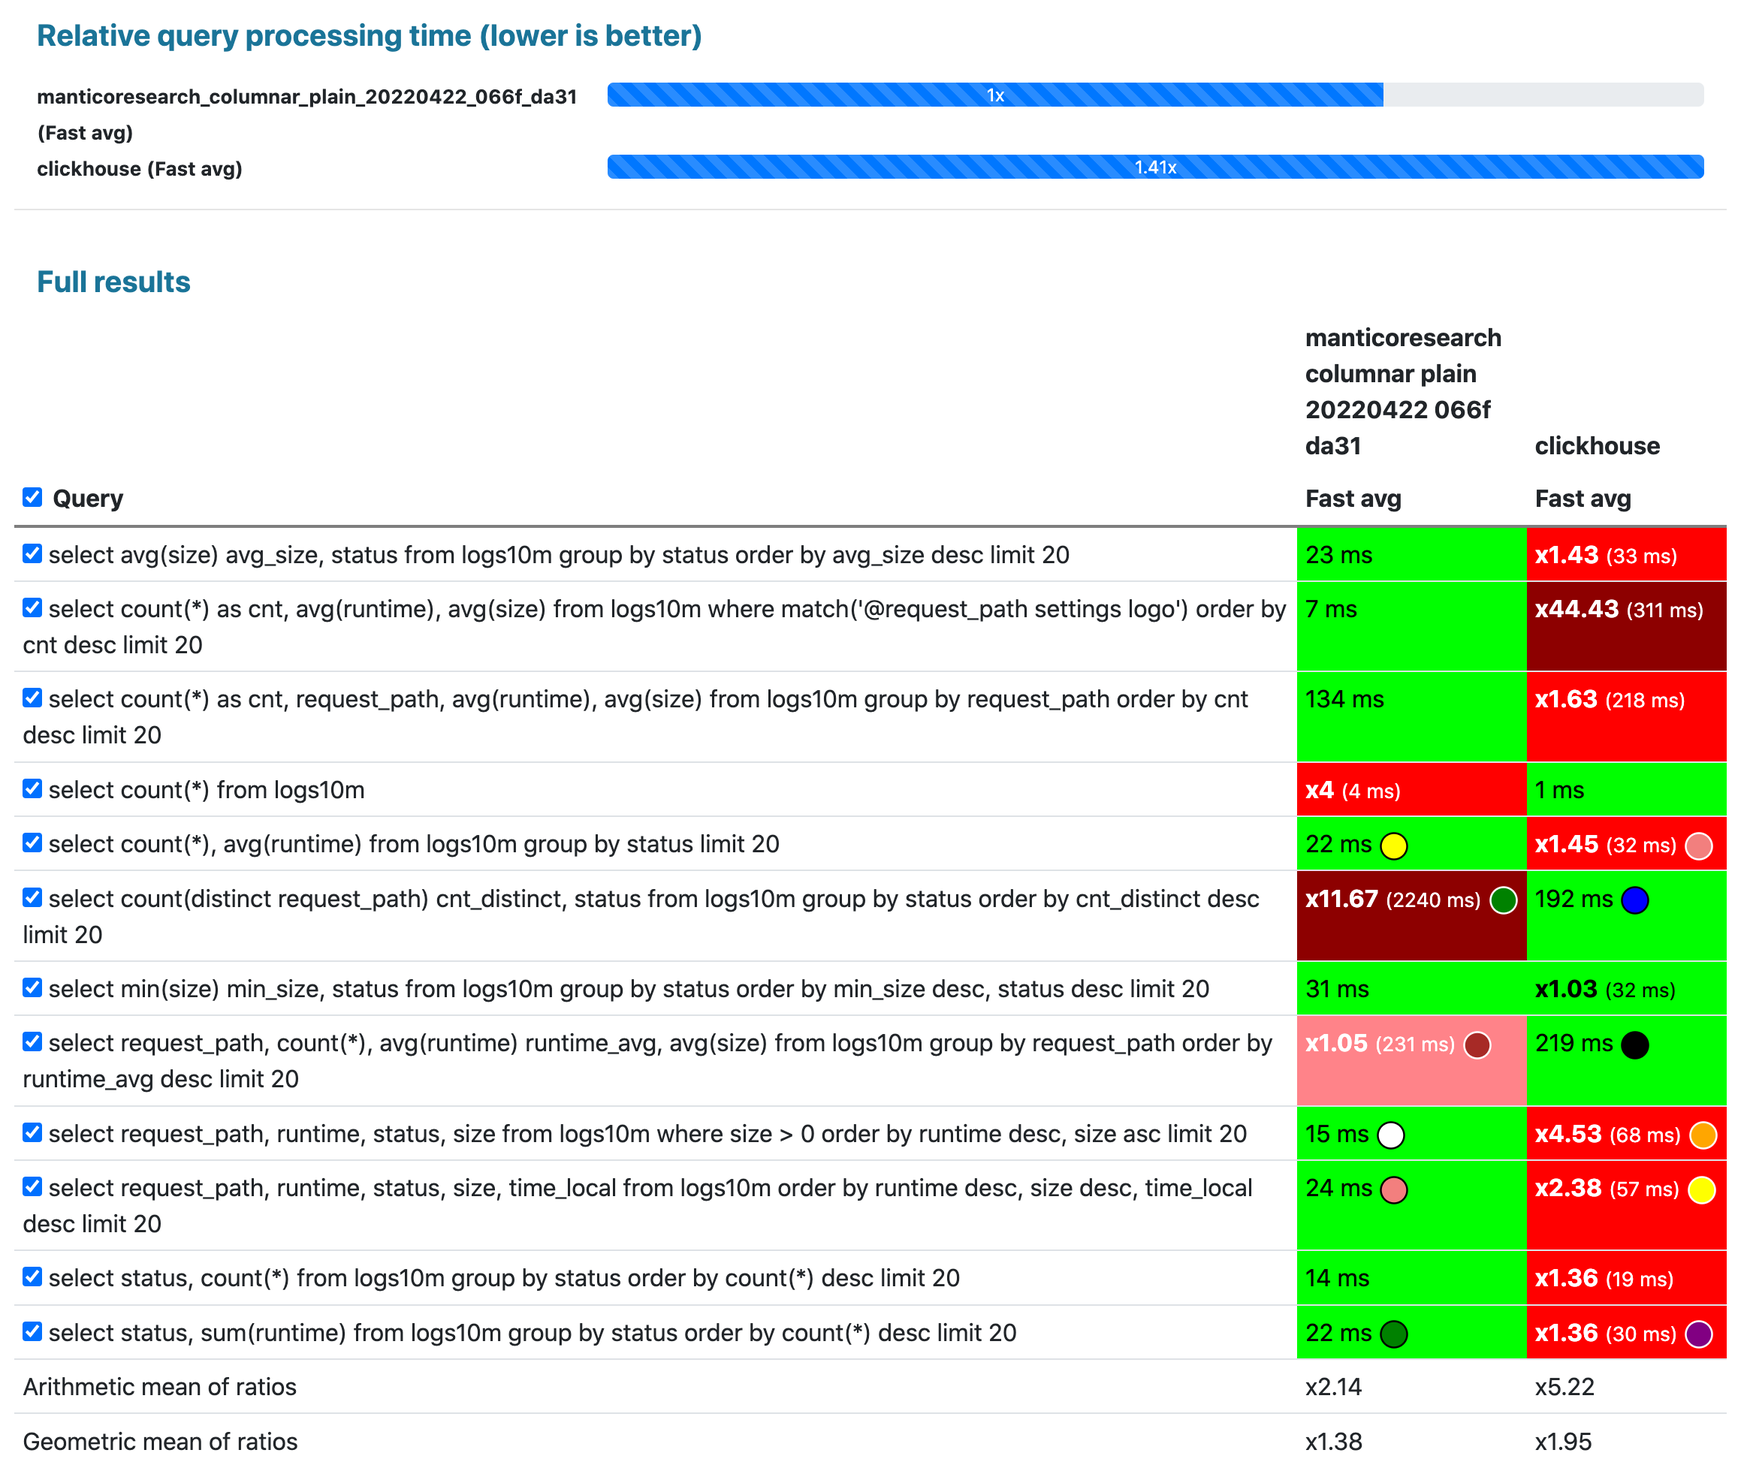
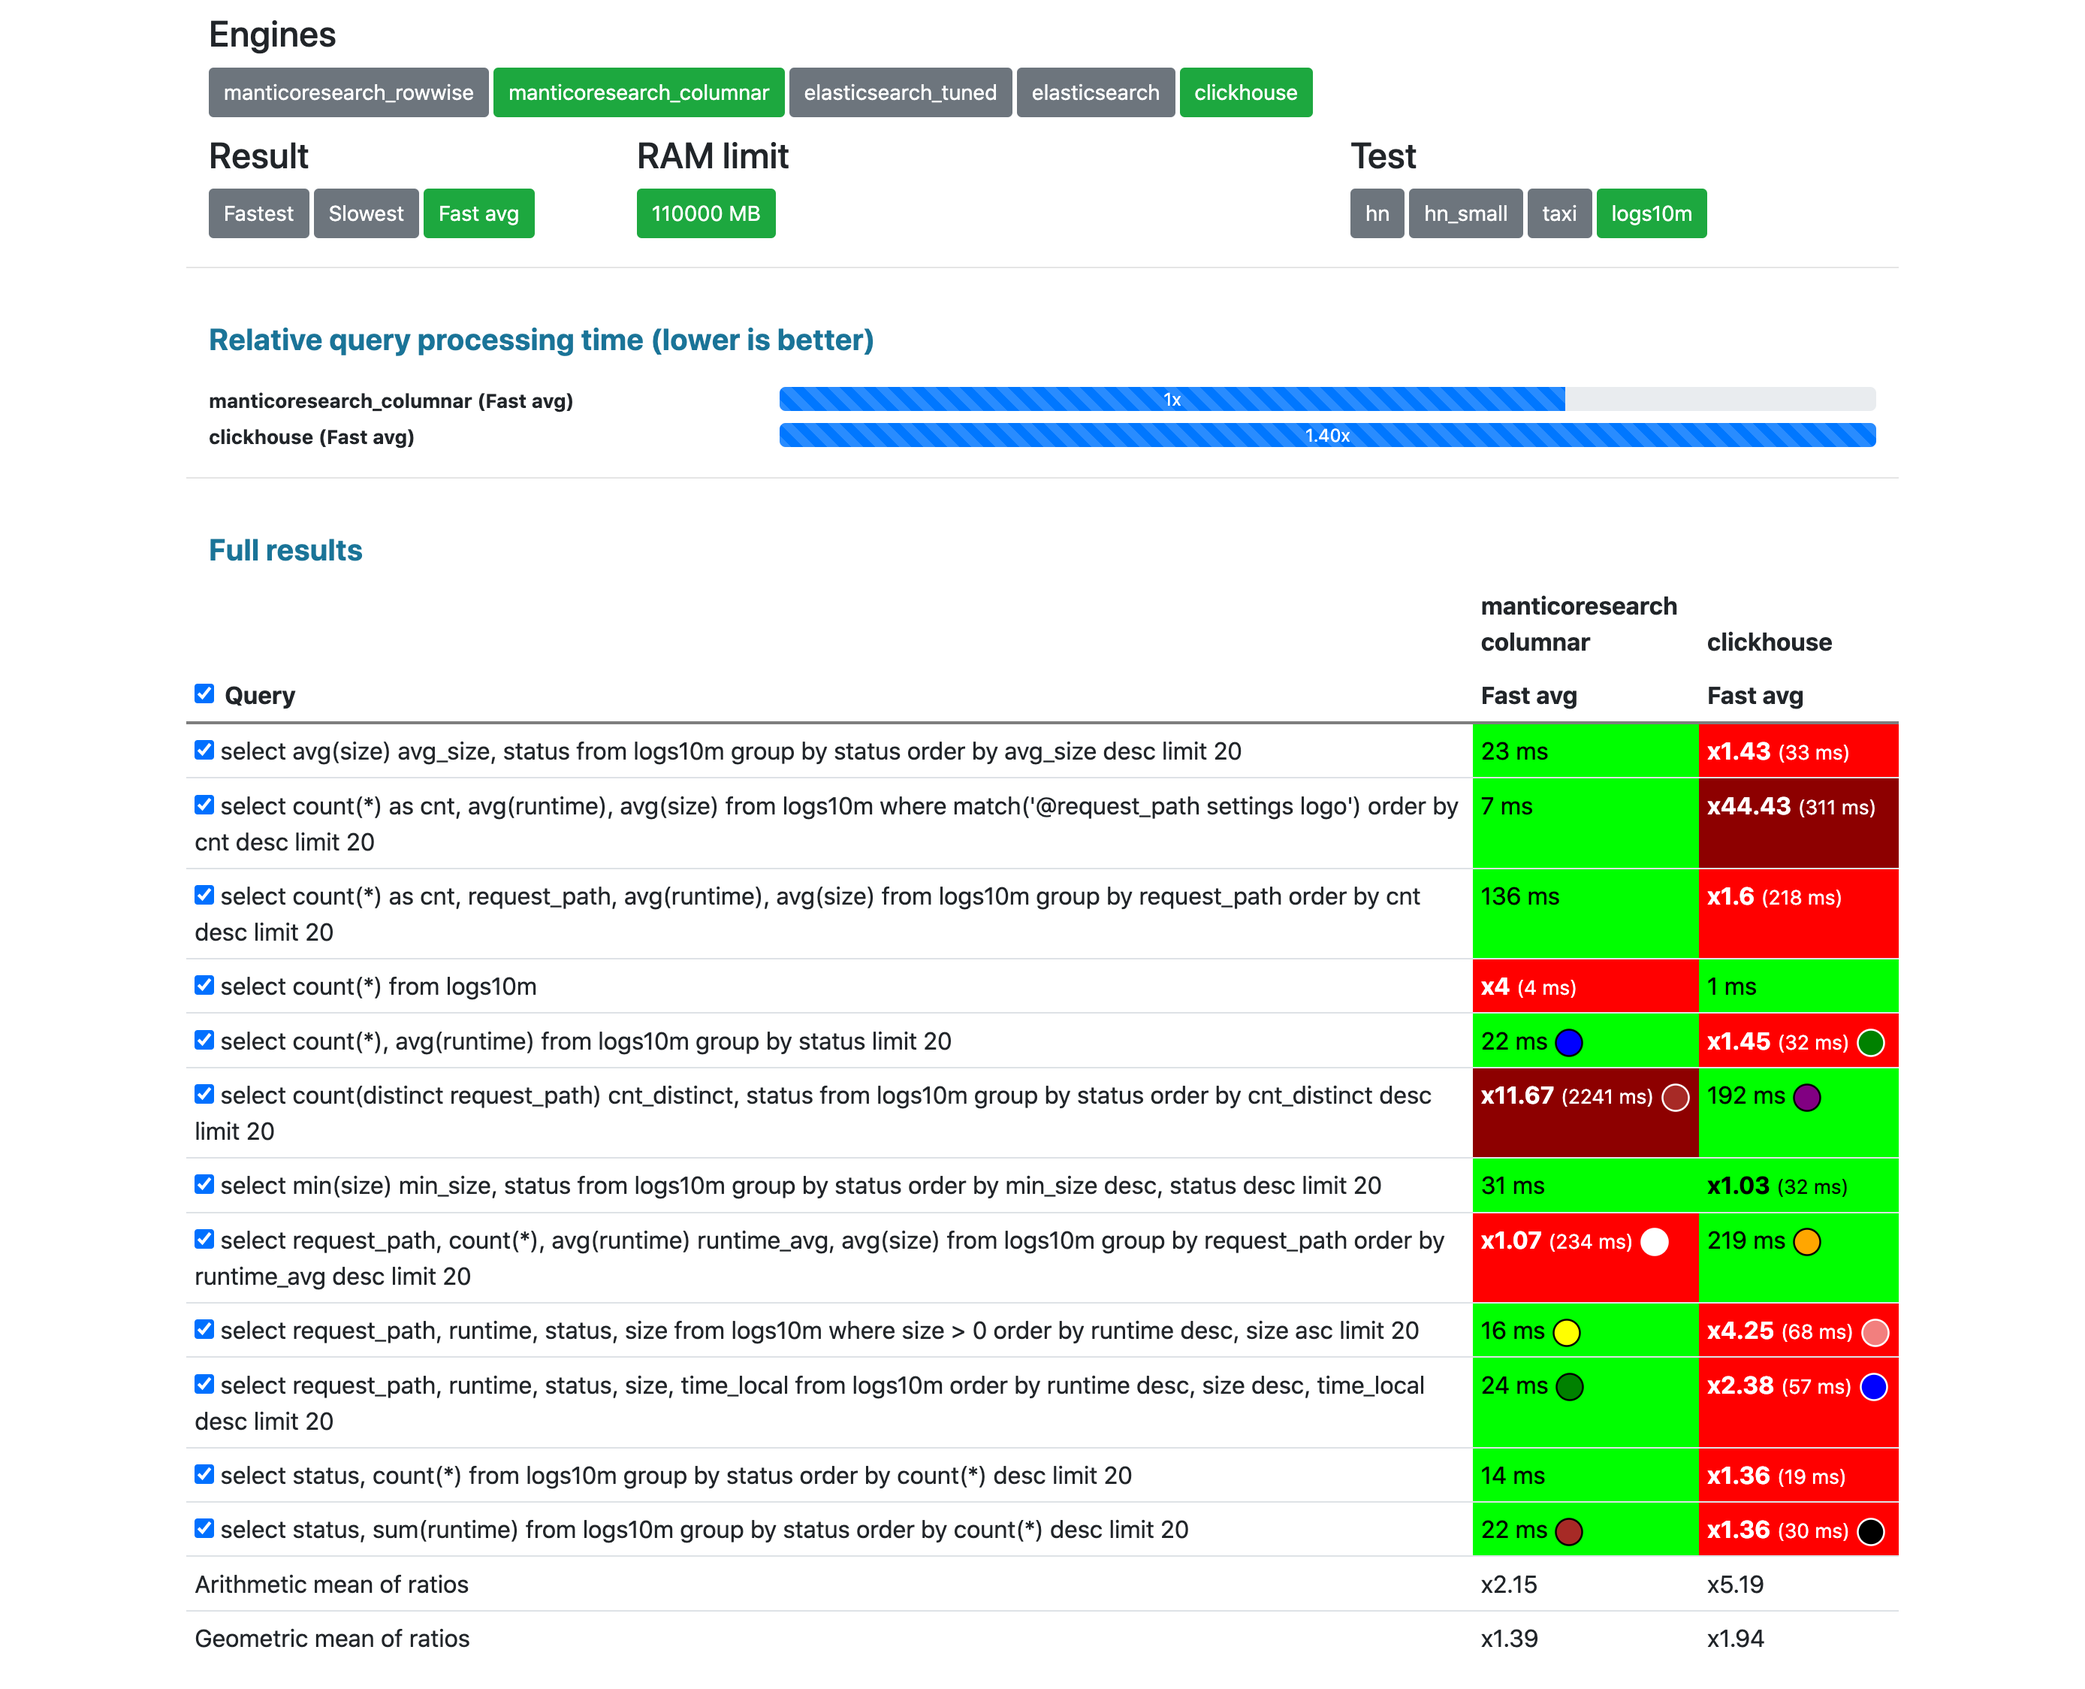
Updated blogposts: * added info about mysql * updated screenshots

Changed region(s): [[0.0, 0.1872, 0.9888, 0.9985], [0.0, 0.0, 0.9888, 0.156], [0.0927, 0.312, 0.1854, 0.3432]]

diff --git a/site/content/posts/test-hn/index.md b/site/content/posts/test-hn/index.md
@@ -53,13 +53,14 @@ So far we have made this test available for 3 databases:
 We've tried to make as little changes to database default settings as possible to not give either of them an unfair advantage:
 
 * Clickhouse: [no tuning](https://github.com/db-benchmarks/db-benchmarks/blob/main/tests/hn/ch/init), just `CREATE TABLE ... ENGINE = MergeTree() ORDER BY id` and standard [clickhouse-server](https://github.com/db-benchmarks/db-benchmarks/blob/main/docker-compose.yml) docker image.
-* Elasticsearch: as we saw in [another test](/test-logs10m/#elasticsearch-with-no-tuning-vs-tuned) shardin) can help Elasticsearch signficantly, so given 100+ M documents is not the smallest dataset we decided it would be more fair to:
+* Elasticsearch: as we saw in [another test](/test-logs10m/#elasticsearch-with-no-tuning-vs-tuned) sharding can help Elasticsearch signficantly, so given 100+ M documents is not the smallest dataset we decided it would be more fair to:
   - let Elasticsearch make [32 shards](https://github.com/db-benchmarks/db-benchmarks/tree/main/tests/hn/es/logstash_tuned): (`"number_of_shards": 32`), otherwise it couldn't utilize the CPU which has 32 cores on the server, since as [said](https://www.elastic.co/guide/en/elasticsearch/reference/current/size-your-shards.html#single-thread-per-shard) in Elasticsearch official guide "Each shard runs the search on a single CPU thread".
   - we also tuned it by setting `bootstrap.memory_lock=true` since as said on https://www.elastic.co/guide/en/elasticsearch/reference/current/docker.html#_disable_swapping it needs to be done for performance.
-* [Manticore Search](https://github.com/db-benchmarks/db-benchmarks/blob/main/tests/hn/manticore/generate_manticore_config.php) got the following updates:
+  - the docker image is [standard](https://github.com/db-benchmarks/db-benchmarks/blob/main/docker-compose.yml)
+* Manticore Search is also used in a form of [their own docker image + the columnar library they provide](https://github.com/db-benchmarks/db-benchmarks/blob/main/docker-compose.yml). The following updates have been [made](https://github.com/db-benchmarks/db-benchmarks/blob/main/tests/hn/manticore/generate_manticore_config.php) to their defaults:
   - `min_infix_len = 2` since in Elasticsearch by default you can do infix full-text search and it would be not fair to let Manticore run in lighter mode (w/o infixes). Unfortunately it's not possible in Clickhouse at all, so it's given the handicap.
-  - we test Manticore in two modes:
-    - row-wise storage which is a default one
+  - we tested Manticore in two modes:
+    - row-wise storage which is a default one, therefore is worth testing
     - columnar storage: the data collection is of medium size, so provided Elasticsearch and Clickhouse internally use column-oriented structures it seems fair to compare them with Manticore's columnar storage too.
 
 {{% embed file="../about-internal-caches" %}}
@@ -78,33 +79,27 @@ You can find all the results on the [results page](/) by selecting "Test: hn". {
 
 ### 4 competitors at once
 
-[avg(80% fastest)](/?cache=fast_avg&engines=manticoresearch_plain_20220422_066f_da31%2Cmanticoresearch_columnar_plain_20220422_066f_da31%2Celasticsearch_tuned%2Cclickhouse&tests=hn&memory=110000&queries=0%2C1%2C2%2C3%2C4%2C5%2C6%2C7%2C8%2C9%2C10%2C11%2C12%2C13%2C14%2C15%2C16%2C17%2C18%2C19%2C20%2C21%2C22%2C23%2C24%2C25%2C26%2C27):
-
 ![](msc_msr_es_ch.png)
 
 ### Clickhouse vs Elasticsearch
-
-[avg(80% fastest)](/?cache=fast_avg&engines=elasticsearch_tuned%2Cclickhouse&tests=hn&memory=110000&queries=0%2C1%2C2%2C3%2C4%2C5%2C6%2C7%2C8%2C9%2C10%2C11%2C12%2C13%2C14%2C15%2C16%2C17%2C18%2C19%2C20%2C21%2C22%2C23%2C24%2C25%2C26%2C27):
 
 ![](ch_es.png)
 
 ### Manticore Search (columnar storage) vs Elasticsearch
 
-[avg(80% fastest)](/?cache=fast_avg&engines=manticoresearch_columnar_plain_20220422_066f_da31%2Celasticsearch_tuned&tests=hn&memory=110000&queries=0%2C1%2C2%2C3%2C4%2C5%2C6%2C7%2C8%2C9%2C10%2C11%2C12%2C13%2C14%2C15%2C16%2C17%2C18%2C19%2C20%2C21%2C22%2C23%2C24%2C25%2C26%2C27):
-
 ![](msc_es.png)
 
 ### Manticore Search (columnar storage) vs Clickhouse
-
-[avg(80% fastest)](/?cache=fast_avg&engines=manticoresearch_columnar_plain_20220422_066f_da31%2Cclickhouse&tests=hn&memory=110000&queries=0%2C1%2C2%2C3%2C4%2C5%2C6%2C7%2C8%2C9%2C10%2C11%2C12%2C13%2C14%2C15%2C16%2C17%2C18%2C19%2C20%2C21%2C22%2C23%2C24%2C25%2C26%2C27):
 
 ![](msc_ch.png)
 
 ### Manticore Search row-wise storage vs columnar storage
 
-[avg(80% fastest)](/?cache=fast_avg&engines=manticoresearch_plain_20220422_066f_da31%2Cmanticoresearch_columnar_plain_20220422_066f_da31&tests=hn&memory=110000&queries=0%2C1%2C2%2C3%2C4%2C5%2C6%2C7%2C8%2C9%2C10%2C11%2C12%2C13%2C14%2C15%2C16%2C17%2C18%2C19%2C20%2C21%2C22%2C23%2C24%2C25%2C26%2C27):
-
 ![](msc_msr.png)
+
+### What about MySQL?
+
+As you can see on the screenshots MySQL has been also tested, but we don't compare it with the others here since it was [heavily tuned](https://github.com/db-benchmarks/db-benchmarks/blob/main/tests/hn/mysql/init) - keys were added based on the queries.
 
 ## Disclaimer
 

diff --git a/site/content/posts/test-hn-small/index.md b/site/content/posts/test-hn-small/index.md
@@ -45,17 +45,21 @@ The record structure is:
 
 ## Databases
 
-So far we have made this test available for 3 databases:
+So far we have made this test available for 4 databases:
+
+* [MySQL](https://www.mysql.com/) - "world's most popular" open source OLTP database,
 * [Clickhouse](https://github.com/ClickHouse/ClickHouse) - a powerful OLAP database,
 * [Elasticsearch](https://github.com/elastic/elasticsearch) - general purpose "search and analytics engine",
 * [Manticore Search](https://github.com/manticoresoftware/manticoresearch/) - "database for search", Elasticsearch alternative.
 
 We've tried to make as little changes to database default settings as possible to not give either of them an unfair advantage:
 
-* Clickhouse: [no tuning](https://github.com/db-benchmarks/db-benchmarks/blob/main/tests/hn/ch/init), just `CREATE TABLE ... ENGINE = MergeTree() ORDER BY id SETTINGS index_granularity = 8192` and standard [clickhouse-server](https://github.com/db-benchmarks/db-benchmarks/blob/main/docker-compose.yml) docker image.
-* Elasticsearch: also [no tuning](https://github.com/db-benchmarks/db-benchmarks/tree/main/tests/hn_small/es/logstash) except for `bootstrap.memory_lock=true` since as said on https://www.elastic.co/guide/en/elasticsearch/reference/current/docker.html#_disable_swapping it needs to be done for performance.
+* MySQL: [no tuning](https://github.com/db-benchmarks/db-benchmarks/blob/main/tests/hn_small/mysql/init), just `CREATE TABLE ..., FULLTEXT(story_text,story_author,comment_text,comment_author))` and standard [mysql docker image](https://github.com/db-benchmarks/db-benchmarks/blob/main/docker-compose.yml).
+* Clickhouse: [no tuning](https://github.com/db-benchmarks/db-benchmarks/blob/main/tests/hn/ch/init), just `CREATE TABLE ... ENGINE = MergeTree() ORDER BY id SETTINGS index_granularity = 8192` and standard [clickhouse-server docker image](https://github.com/db-benchmarks/db-benchmarks/blob/main/docker-compose.yml).
+* Elasticsearch: also [no tuning](https://github.com/db-benchmarks/db-benchmarks/tree/main/tests/hn_small/es/logstash) except for `bootstrap.memory_lock=true` since as said on https://www.elastic.co/guide/en/elasticsearch/reference/current/docker.html#_disable_swapping it needs to be done for performance. The [docker image](https://github.com/db-benchmarks/db-benchmarks/blob/main/docker-compose.yml) is also from the vendor.
 * [Manticore Search](https://github.com/db-benchmarks/db-benchmarks/blob/main/tests/hn/manticore/generate_manticore_config.php):
   - `min_infix_len = 2` since in Elasticsearch by default you can do infix full-text search and it would be unfair advantage if Manticore was running w/o infixes. Unfortunately it's not possible in Clickhouse at all, so it's given the handicap.
+  - and as for the others we use [their own docker image](https://github.com/db-benchmarks/db-benchmarks/blob/main/dockers/manticore) + their columnar library (but it's not used in this test).
 
 {{% embed file="../about-internal-caches" %}}
 
@@ -65,32 +69,38 @@ The query set consists of both full-text and analytical (filtering, sorting, gro
 
 {{% code file="../../db-benchmarks/tests/hn_small/test_queries" language="json" %}}
 
-
 ## Results
 
 You can find all the results on the [results page](/?cache=fast_avg&tests=hn) by selecting "Test: hn_small". {{% embed file="../about-results" %}}
 
 **Unlike other less transparent and less objective benchmarks we are not making any conclusions, we are just leaving screenshots of the results here:**
 
-### 3 competitors at once
+### 4 competitors at once
 
-[avg(80% fastest)](/?cache=fast_avg&engines=manticoresearch_plain_20220422_066f_da31%2Celasticsearch%2Cclickhouse&tests=hn_small&memory=110000&queries=0%2C1%2C2%2C3%2C4%2C5%2C6%2C7%2C8%2C9%2C10%2C11%2C12%2C13%2C14%2C15%2C16%2C17%2C18%2C19%2C20%2C21%2C22%2C23%2C24%2C25%2C26%2C27):
+![](4.png)
 
-![](ch_ms_es.png)
+### MySQL vs Clickhouse
+
+![](my_ch.png)
+
+### MySQL vs Elasitcsearch
+
+![](my_es.png)
+
+### MySQL vs Manticore Search
+
+![](my_ms.png)
 
 ### Clickhouse vs Elasticsearch
 
-[avg(80% fastest)](/?cache=fast_avg&engines=elasticsearch%2Cclickhouse&tests=hn_small&memory=110000&queries=0%2C1%2C2%2C3%2C4%2C5%2C6%2C7%2C8%2C9%2C10%2C11%2C12%2C13%2C14%2C15%2C16%2C17%2C18%2C19%2C20%2C21%2C22%2C23%2C24%2C25%2C26%2C27:)
 ![](ch_es.png)
 
 ### Manticore Search vs Elasticsearch
 
-[avg(80% fastest)](/?cache=fast_avg&engines=manticoresearch_plain_20220422_066f_da31%2Celasticsearch&tests=hn_small&memory=110000&queries=0%2C1%2C2%2C3%2C4%2C5%2C6%2C7%2C8%2C9%2C10%2C11%2C12%2C13%2C14%2C15%2C16%2C17%2C18%2C19%2C20%2C21%2C22%2C23%2C24%2C25%2C26%2C27):
 ![](ms_es.png)
 
 ### Manticore Search vs Clickhouse
 
-[avg(80% fastest)](/?cache=fast_avg&engines=manticoresearch_plain_20220422_066f_da31%2Cclickhouse&tests=hn_small&memory=110000&queries=0%2C1%2C2%2C3%2C4%2C5%2C6%2C7%2C8%2C9%2C10%2C11%2C12%2C13%2C14%2C15%2C16%2C17%2C18%2C19%2C20%2C21%2C22%2C23%2C24%2C25%2C26%2C27):
 ![](ms_ch.png)
 
 ## Disclaimer

diff --git a/site/content/posts/test-taxi/index.md b/site/content/posts/test-taxi/index.md
@@ -111,9 +111,10 @@ We've tried to make as little changes to database default settings as possible t
 * Elasticsearch: here to make it fair to compare with the other databases we [had to help Elasticsearch](https://github.com/db-benchmarks/db-benchmarks/blob/main/tests/taxi/es/logstash_tuned/template.json) by:
   - letting it make 32 shards: (`"number_of_shards": 32`), otherwise it couldn't utilize the CPU which has 32 cores on the server, since as [said](https://www.elastic.co/guide/en/elasticsearch/reference/current/size-your-shards.html#single-thread-per-shard) in Elasticsearch official guide "Each shard runs the search on a single CPU thread".
   - `bootstrap.memory_lock=true` since as said on https://www.elastic.co/guide/en/elasticsearch/reference/current/docker.html#_disable_swapping it needs to be done for performance.
-* [Manticore Search](https://github.com/db-benchmarks/db-benchmarks/tree/main/tests/taxi/manticore):
+  - the docker image is [standard](https://github.com/db-benchmarks/db-benchmarks/blob/main/docker-compose.yml)
+* Manticore Search is also used in a form of [their own docker image + the columnar library they provide](https://github.com/db-benchmarks/db-benchmarks/blob/main/docker-compose.yml):
   - as well as with Elasticsearch we [also use](https://github.com/db-benchmarks/db-benchmarks/blob/main/tests/taxi/manticore/generate_manticore_config.php) 32 shards in a form of 32 plain indexes
-  - and we use Manticore Columnar Library since comparing Manticore's default row-wise storage vs Clickhouse's and Elasticsearch's columnar storages would be not fair on such a large data collection.
+  - and we use Manticore columnar storage since comparing Manticore's default row-wise storage vs Clickhouse's and Elasticsearch's columnar storages would be not fair on such a large data collection.
 
 {{% embed file="../about-internal-caches" %}}
 
@@ -130,25 +131,17 @@ You can find all the results on the [results page](/) by selecting "Test: taxi".
 
 ### 3 competitors at once
 
-[avg(80% fastest)](/?cache=fast_avg&engines=manticoresearch_columnar_plain_20220422_066f_da31%2Celasticsearch_tuned_32%2Cclickhouse&tests=taxi&memory=110000&queries=0%2C1%2C2%2C3%2C4%2C5%2C6%2C7%2C8%2C9%2C10%2C11%2C12%2C13%2C14%2C15%2C16):
-
 ![](3.png)
 
 ### Clickhouse vs Elasticsearch
-
-[avg(80% fastest)](/?cache=fast_avg&engines=elasticsearch_tuned_32%2Cclickhouse&tests=taxi&memory=110000&queries=0%2C1%2C2%2C3%2C4%2C5%2C6%2C7%2C8%2C9%2C10%2C11%2C12%2C13%2C14%2C15%2C16):
 
 ![](ch_es.png)
 
 ### Manticore Search vs Elasticsearch
 
-[avg(80% fastest)](/?cache=fast_avg&engines=manticoresearch_columnar_plain_20220422_066f_da31%2Celasticsearch_tuned_32&tests=taxi&memory=110000&queries=0%2C1%2C2%2C3%2C4%2C5%2C6%2C7%2C8%2C9%2C10%2C11%2C12%2C13%2C14%2C15%2C16):
-
 ![](ms_es.png)
 
 ### Manticore Search vs Clickhouse
-
-[avg(80% fastest)](/?cache=fast_avg&engines=manticoresearch_columnar_plain_20220422_066f_da31%2Cclickhouse&tests=taxi&memory=110000&queries=0%2C1%2C2%2C3%2C4%2C5%2C6%2C7%2C8%2C9%2C10%2C11%2C12%2C13%2C14%2C15%2C16):
 
 ![](ms_ch.png)
 

diff --git a/site/content/posts/test-logs10m/index.md b/site/content/posts/test-logs10m/index.md
@@ -106,15 +106,11 @@ You can find all the results on the [results page](/) by selecting "Test: logs10
 
 ### 3 competitors with no tuning at once
 
-[avg(80% fastest)](/?cache=fast_avg&engines=manticoresearch_plain_20220422_066f_da31%2Celasticsearch%2Cclickhouse&tests=logs10m&memory=110000&queries=0%2C1%2C3%2C4%2C5%2C6%2C8%2C9%2C10%2C11):
-
 ![](msr_es_ch.png)
 
 Unfortunately Elasticsearch timed out for 2 queries, hence they were excluded from the final score calculation.
 
 ### Elasticsearch with no tuning vs Manticore Search (default row-wise storage)
-
-[avg(80% fastest)](/?cache=fast_avg&engines=manticoresearch_plain_20220422_066f_da31%2Celasticsearch&tests=logs10m&memory=110000&queries=0%2C1%2C3%2C4%2C5%2C6%2C8%2C9%2C10%2C11):
 
 ![](es_msr.png)
 
@@ -122,15 +118,11 @@ Unfortunately Elasticsearch timed out for 2 queries, hence they were excluded fr
 
 ### Elasticsearch with no tuning vs tuned
 
-[avg(80% fastest)](/?cache=fast_avg&engines=elasticsearch_tuned%2Celasticsearch&tests=logs10m&memory=110000&queries=0%2C1%2C3%2C4%2C5%2C6%2C8%2C9%2C10%2C11):
-
 ![](es_est.png)
 
 Unfortunately Elasticsearch timed out for 2 queries, hence they were excluded from the final score calculation.
 
-### Elasticsearch tuned vs Manticore Search (default raw-wise storage)
-
-[avg(80% fastest)](/?cache=fast_avg&engines=manticoresearch_plain_20220422_066f_da31%2Celasticsearch_tuned&tests=logs10m&memory=110000&queries=0%2C1%2C3%2C4%2C5%2C6%2C8%2C9%2C10%2C11):
+### Elasticsearch tuned vs Manticore Search (default row-wise storage)
 
 ![](est_msr.png)
 
@@ -138,21 +130,15 @@ Unfortunately Elasticsearch timed out for 2 queries, hence they were excluded fr
 
 ### Elasticsearch tuned vs Manticore Search (columnar storage)
 
-[avg(80% fastest)](/?cache=fast_avg&engines=manticoresearch_columnar_plain_20220422_066f_da31%2Celasticsearch_tuned&tests=logs10m&memory=110000&queries=0%2C1%2C3%2C4%2C5%2C6%2C8%2C9%2C10%2C11):
-
 ![](est_msc.png)
 
 Unfortunately Elasticsearch timed out for 2 queries, hence they were excluded from the final score calculation.
 
 ### Clickhouse vs Manticore Search (columnar storage)
 
-[avg(80% fastest)](/?cache=fast_avg&engines=manticoresearch_columnar_plain_20220422_066f_da31%2Cclickhouse&tests=logs10m&memory=110000&queries=0%2C1%2C2%2C3%2C4%2C5%2C6%2C7%2C8%2C9%2C10%2C11):
-
 ![](ch_msc.png)
 
 ### Manticore Search row-wise vs columnar
-
-[avg(80% fastest)](/?cache=fast_avg&engines=manticoresearch_plain_20220422_066f_da31%2Cmanticoresearch_columnar_plain_20220422_066f_da31&tests=logs10m&memory=110000&queries=0%2C1%2C2%2C3%2C4%2C5%2C6%2C7%2C8%2C9%2C10%2C11):
 
 ![](msr_msc.png)
 
